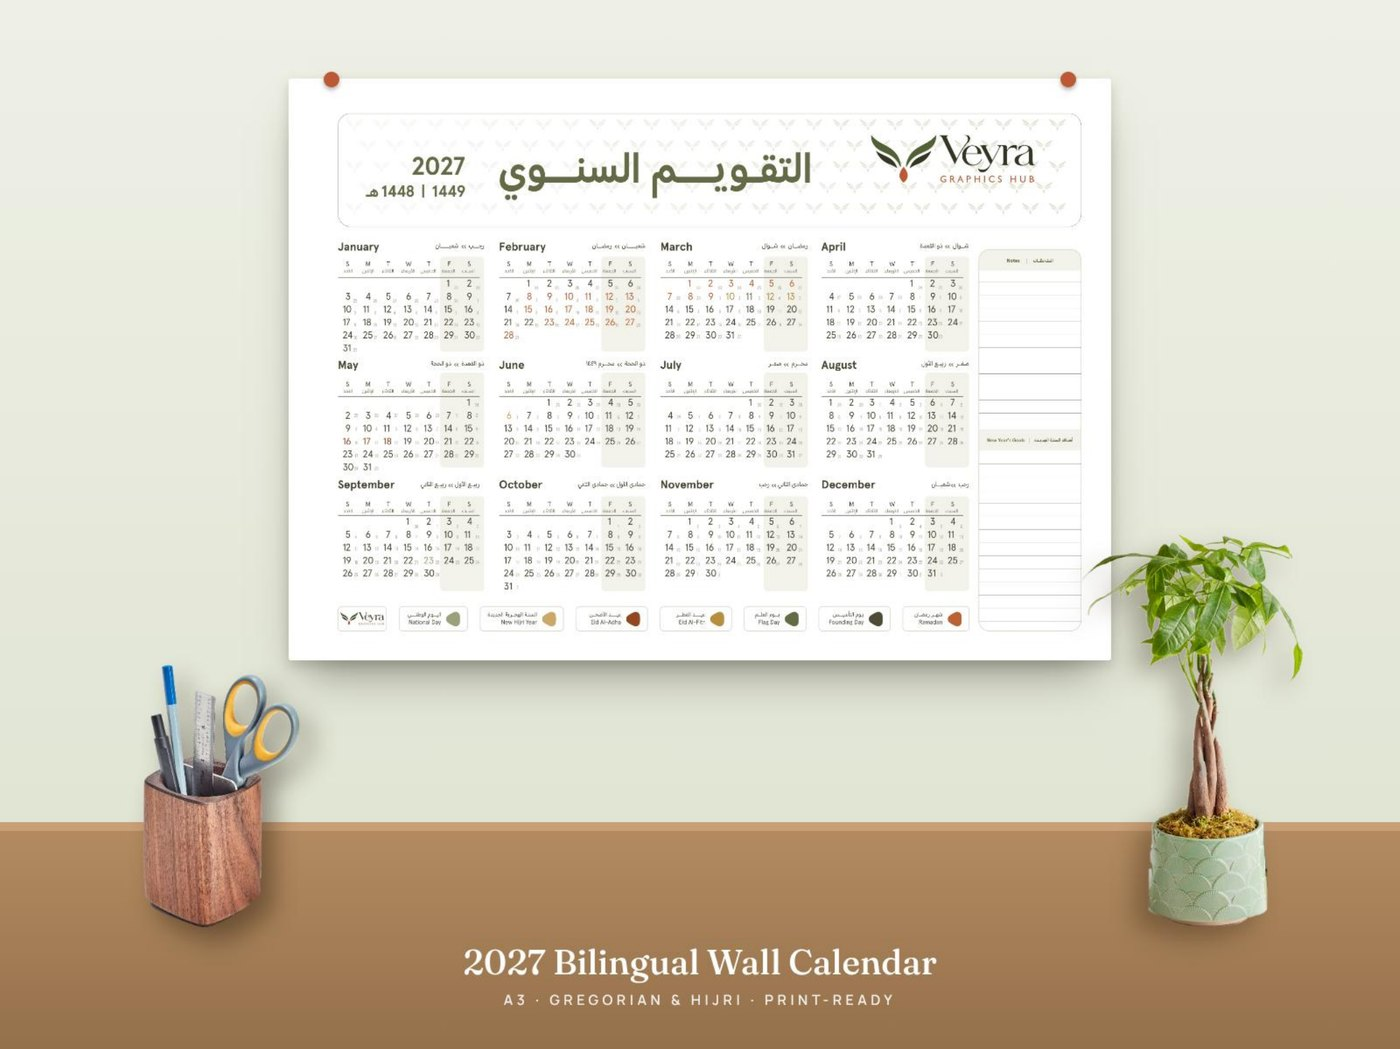
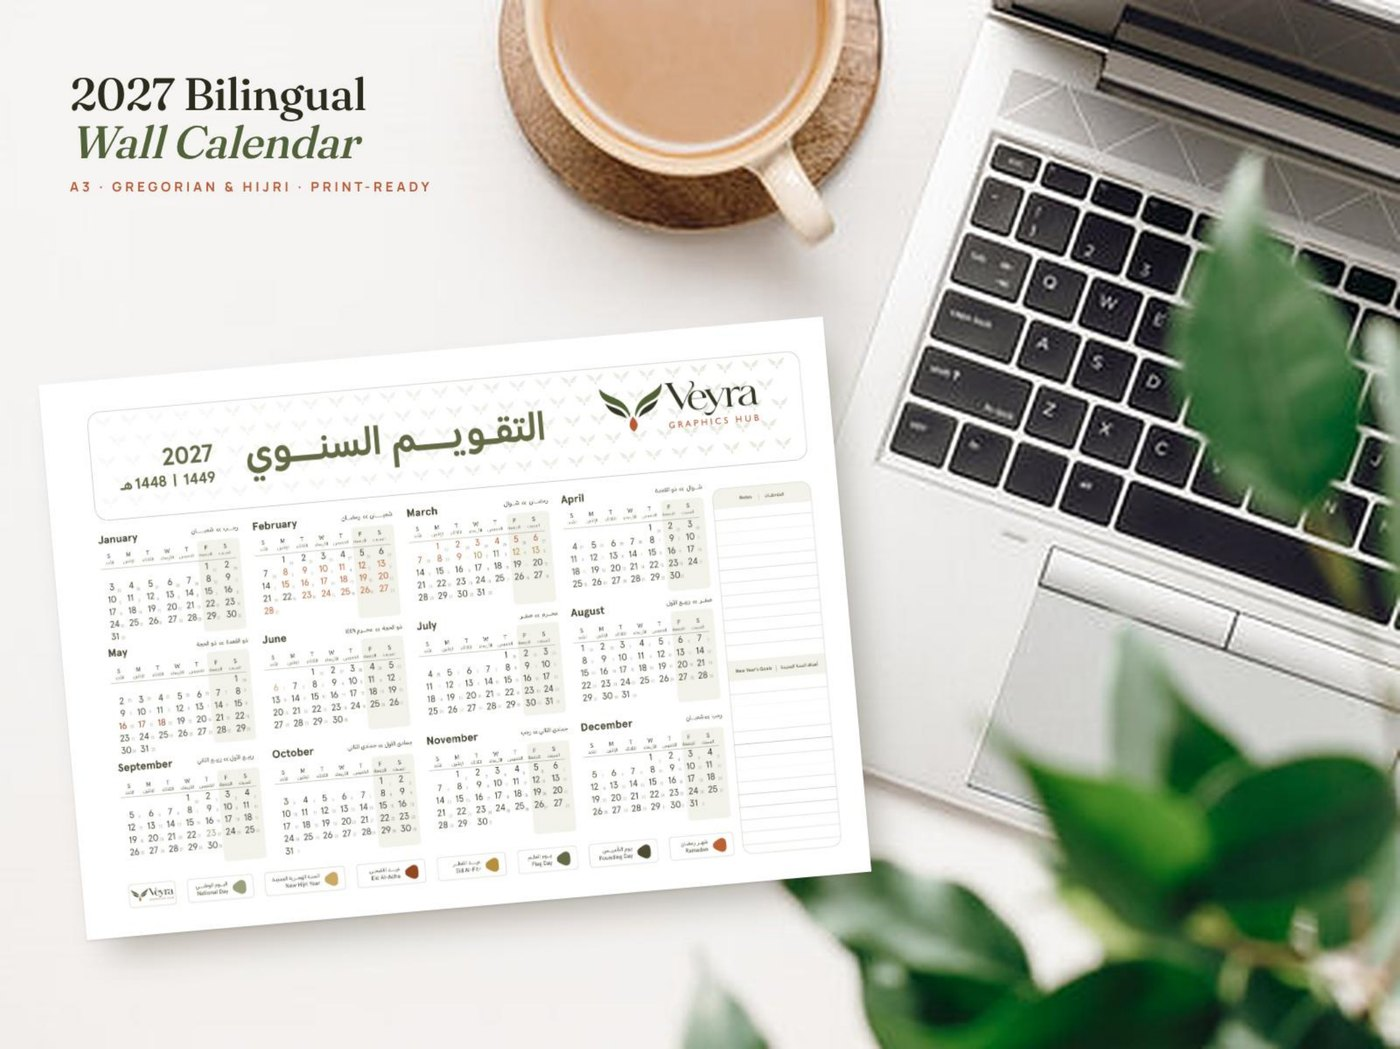
Use desk mockup as the 2027 calendar thumbnail
Claude-Session: https://claude.ai/code/session_01ACGREMsMwMMY5w7bBH48AR

diff --git a/index.html b/index.html
@@ -1023,7 +1023,7 @@
     </div>
     <div class="work-grid">
       <button type="button" class="work-card" data-img="work/veyra-2027-calendar-board.jpg" data-title="2027 Bilingual Wall Calendar" data-alt="2027 Arabic and English wall calendar: full layout, design details and mockups" aria-label="View project: 2027 Bilingual Wall Calendar">
-        <span class="work-thumb"><span class="tag">Print Design</span><img src="work/veyra-2027-calendar.jpg" alt="2027 Arabic and English wall calendar hanging on a wall" width="500" height="500" loading="lazy" decoding="async"></span>
+        <span class="work-thumb"><span class="tag">Print Design</span><img src="work/veyra-2027-calendar.jpg" alt="2027 Arabic and English wall calendar on a desk next to a laptop" width="500" height="500" loading="lazy" decoding="async"></span>
         <span class="work-body">
           <span><span class="wt">2027 Bilingual Wall Calendar</span><span class="desc">A3 Arabic &amp; English calendar, Gregorian + Hijri</span></span>
           <span class="work-arrow" aria-hidden="true">↗</span>
